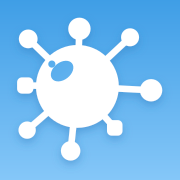
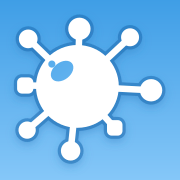
design: 심볼·워드마크에 얇은 파란 외곽선 — 흰색 요소 선명도 개선
- ModuMark에 옵트인 outline 프롭 추가 (지오메트리를 키운 밑층 방식,
  A2 구름과 동일 기법 — 기본 렌더링은 불변)
- 아이콘·스플래시 심볼에 #1B6DB3 55%/50% 얇은 테두리 적용
- 스플래시 모두 워드마크에 1px 반투명 text-stroke

Claude-Session: https://claude.ai/code/session_01NyLGZMa4vwNp1pyPEDas2B

Changed region(s): [[0.0556, 0.0833, 0.9167, 0.9167]]

diff --git a/src/components/ModuMark.jsx b/src/components/ModuMark.jsx
@@ -33,10 +33,31 @@ export function ModuMarkHomeButton({ size = 34, color = '#1683B8', highlight = '
   )
 }
 
-export function ModuMark({ size = 64, color = '#1683B8', highlight = '#FFFFFF', ...props }) {
+// outline: 옅은 배경 위 흰 마크가 희미할 때 쓰는 얇은 외곽선 (A2 구름과 같은 기법 —
+// 같은 지오메트리를 키운 밑층을 깔아 합집합 바깥으로만 테두리가 남는다. 지오메트리 자체는 불변)
+export function ModuMark({ size = 64, color = '#1683B8', highlight = '#FFFFFF', outline, outlineWidth = 1.8, outlineOpacity = 1, ...props }) {
+  const ow = outlineWidth
   return (
     <svg width={size} height={size} viewBox="0 0 100 100" role="img" aria-label="modu symbol" {...props}>
       <g transform="translate(9,9) scale(0.82)">
+        {/* 밑층 도형끼리 겹치는 부분이 진해지지 않도록 그룹 단위로 투명도 적용 */}
+        {outline && (
+          <g opacity={outlineOpacity}>
+            <path
+              d="M 63.90 37.04 L 79.26 22.72 M 68.97 50.99 L 90.94 52.14 M 50.66 31.01 L 51.12 18.02 M 36.33 36.80 L 22.67 23.60 M 62.71 64.12 L 70.74 73.04 M 48.01 68.90 L 46.24 85.80 M 31.00 49.67 L 21.00 49.49 M 35.66 62.47 L 22.08 74.28"
+              fill="none" stroke={outline} strokeWidth={3.6 + ow * 2} strokeLinecap="round"
+            />
+            <circle cx="79.26" cy="22.72" r={5 + ow} fill={outline} />
+            <circle cx="90.94" cy="52.14" r={6.2 + ow} fill={outline} />
+            <circle cx="51.12" cy="18.02" r={6.2 + ow} fill={outline} />
+            <circle cx="22.67" cy="23.60" r={5.2 + ow} fill={outline} />
+            <rect x={66.44 - ow} y={68.74 - ow} width={8.6 + ow * 2} height={8.6 + ow * 2} rx={2.6 + ow} fill={outline} />
+            <circle cx="46.24" cy="85.80" r={5.4 + ow} fill={outline} />
+            <rect x={16.50 - ow} y={44.99 - ow} width={9 + ow * 2} height={9 + ow * 2} rx={2.7 + ow} fill={outline} />
+            <circle cx="22.08" cy="74.28" r={4.8 + ow} fill={outline} />
+            <circle cx="50" cy="50" r={23 + ow} fill={outline} />
+          </g>
+        )}
         <path
           d="M 63.90 37.04 L 79.26 22.72 M 68.97 50.99 L 90.94 52.14 M 50.66 31.01 L 51.12 18.02 M 36.33 36.80 L 22.67 23.60 M 62.71 64.12 L 70.74 73.04 M 48.01 68.90 L 46.24 85.80 M 31.00 49.67 L 21.00 49.49 M 35.66 62.47 L 22.08 74.28"
           fill="none" stroke={color} strokeWidth="3.6" strokeLinecap="round"

diff --git a/src/screens/A1Splash.jsx b/src/screens/A1Splash.jsx
@@ -67,8 +67,8 @@ export default function A1Splash() {
       {/* ── 중앙 로고 블록 ── */}
       <div className="splash-in flex flex-col items-center gap-6">
 
-        {/* ModuMark 심볼 — 흰 마크, 하늘색 하이라이트 */}
-        <ModuMark size={96} color="#ffffff" highlight={SKY_MID} />
+        {/* ModuMark 심볼 — 흰 마크 + 얇은 파란 외곽선(선명도) */}
+        <ModuMark size={96} color="#ffffff" highlight={SKY_MID} outline="#1B6DB3" outlineOpacity={0.5} />
 
         {/* 워드마크 + 태그라인 */}
         <div className="flex flex-col items-center" style={{ width: 'max-content' }}>
@@ -81,6 +81,7 @@ export default function A1Splash() {
               fontSize: '52px',
               letterSpacing: '-0.045em',
               textShadow: '0 2px 10px rgba(40,110,180,0.35)',
+              WebkitTextStroke: '1px rgba(27,109,179,0.45)',
             }}
           >
             모두